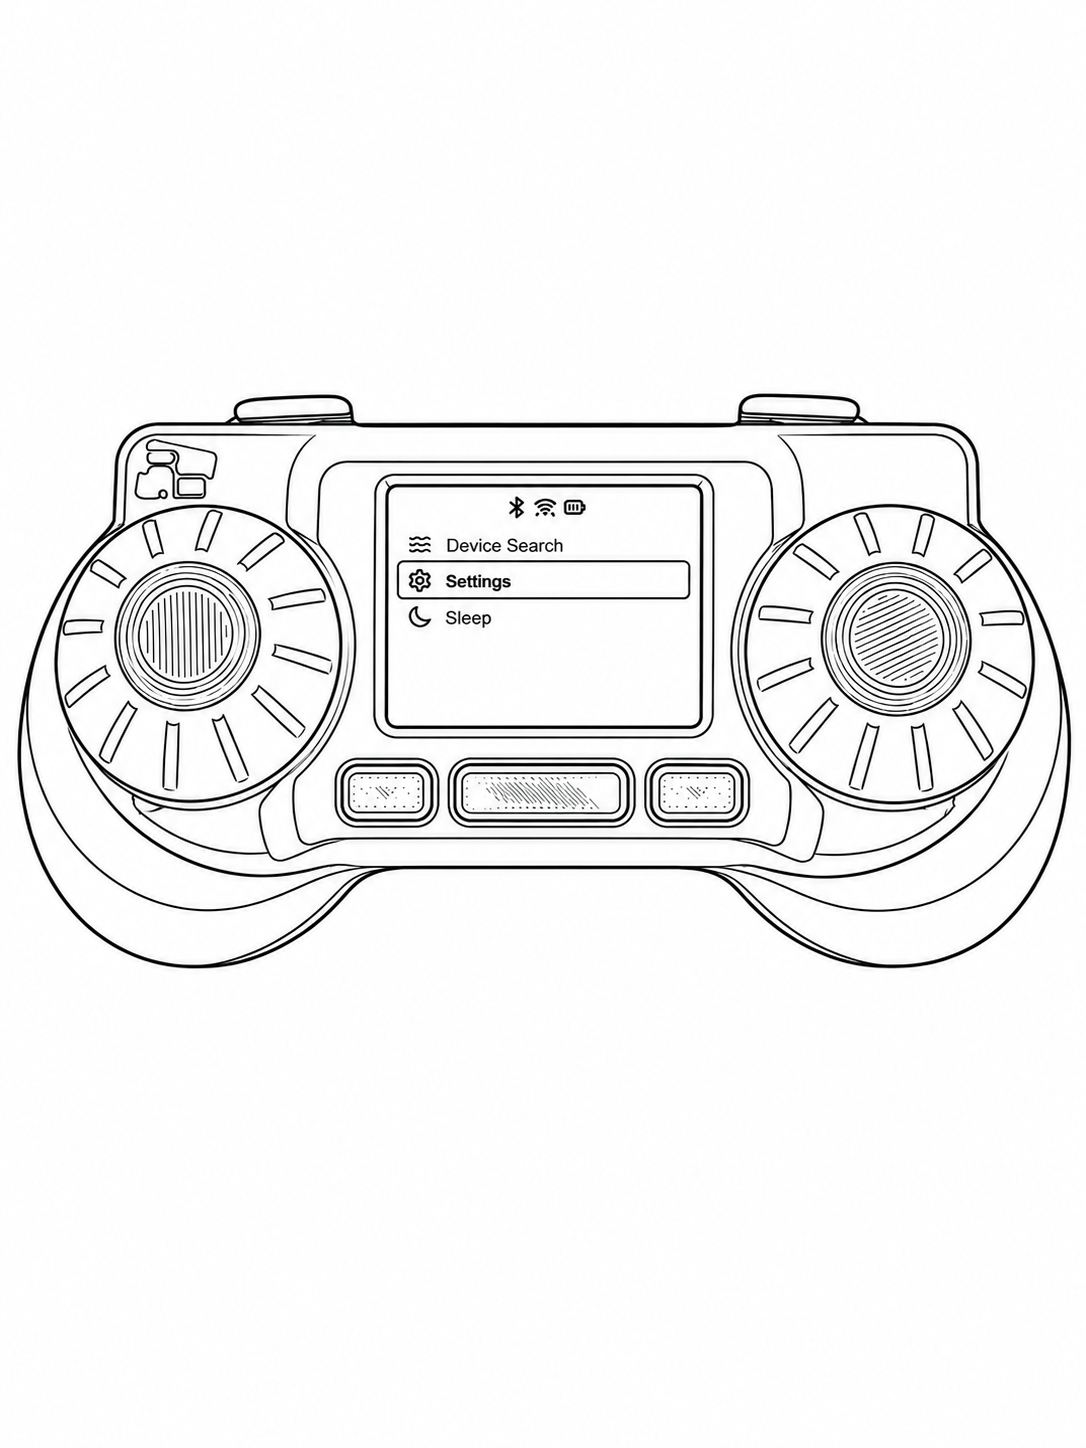
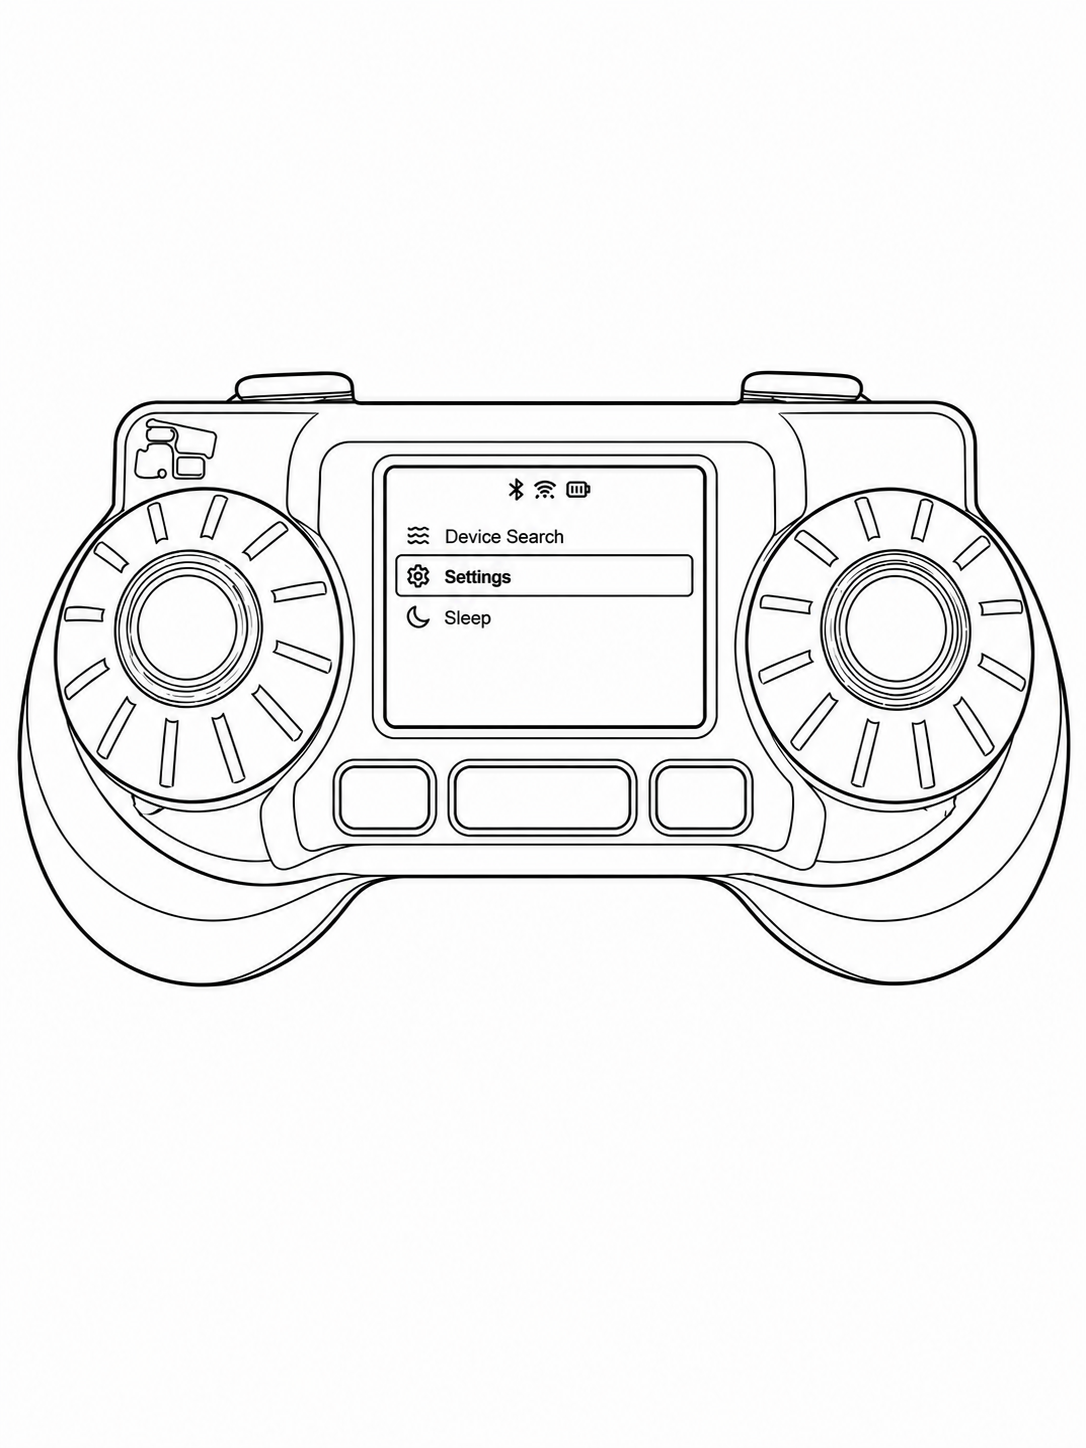
added RADR photos for wifi connectivity

Changed region(s): [[0.0304, 0.2486, 1.0, 0.6837], [0.0, 0.4972, 0.0304, 0.5283]]

diff --git a/docs/ossm/how-to-use.md b/docs/ossm/how-to-use.md
@@ -151,9 +151,9 @@ Connecting your OSSM to WiFi enables it to receive firmware updates as they are 
 1. Connect your OSSM to power and let it home
 2. Connect your Wireless Remote to your OSSM
 3. Navigate to the Wireless Remote menu using the left button
-4. Select "Settings"
-5. Select "Wifi Settings"
-6. Using your phone camera, scan the QR code that appears on the device screen
+4. Select "Settings" ![](/docs/img/wireless_remote_wifi_connectivity_settings_unannotated.png)
+5. Select "Wifi Settings" ![](/docs/img/wireless-remote-wifi-connectivity-wifi-settings-unannotated.png)
+6. Using your phone camera, scan the QR code that appears on the device screen ![](/docs/img/wireless_remote_wifi_connectivity_wifi_QR_code_unannotated.png)
 7. On your phone or computer, connect to the WiFi network named "OSSM Setup"
 8. Select your WiFi network, enter your password, and save
 
